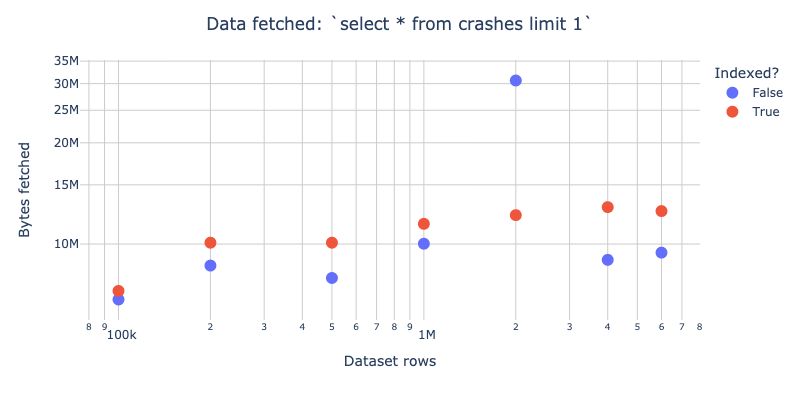
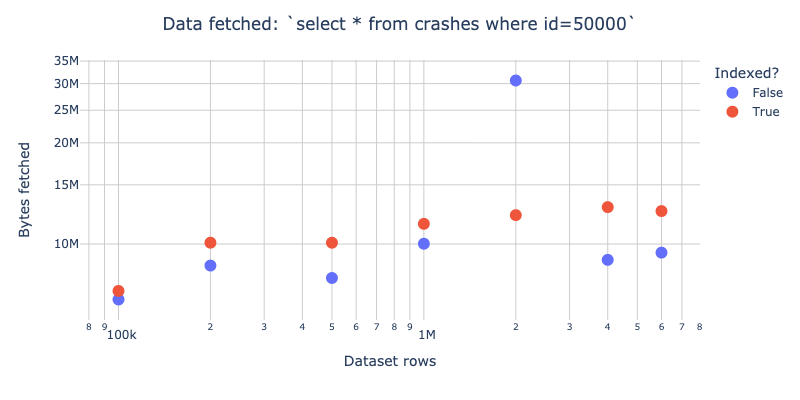
update queries

Changed region(s): [[0.1875, 0.03, 0.7812, 0.09]]

diff --git a/README.md b/README.md
@@ -1,34 +1,12 @@
-This is a [Next.js](https://nextjs.org/) project bootstrapped with [`create-next-app`](https://github.com/vercel/next.js/tree/canary/packages/create-next-app).
+# duckdb-wasm-test
+Measure data fetched when [duckdb-wasm] queries `.duckdb` files in S3
 
-## Getting Started
+![](fetch-1/fetched.png)
 
-First, run the development server:
+![](select-1/fetched.png)
 
-```bash
-npm run dev
-# or
-yarn dev
-```
+## 1. Perform queries, download `.har` file
 
-Open [http://localhost:3000](http://localhost:3000) with your browser to see the result.
+## 2. Analyze `.har` file
 
-You can start editing the page by modifying `pages/index.tsx`. The page auto-updates as you edit the file.
-
-[API routes](https://nextjs.org/docs/api-routes/introduction) can be accessed on [http://localhost:3000/api/hello](http://localhost:3000/api/hello). This endpoint can be edited in `pages/api/hello.ts`.
-
-The `pages/api` directory is mapped to `/api/*`. Files in this directory are treated as [API routes](https://nextjs.org/docs/api-routes/introduction) instead of React pages.
-
-## Learn More
-
-To learn more about Next.js, take a look at the following resources:
-
-- [Next.js Documentation](https://nextjs.org/docs) - learn about Next.js features and API.
-- [Learn Next.js](https://nextjs.org/learn) - an interactive Next.js tutorial.
-
-You can check out [the Next.js GitHub repository](https://github.com/vercel/next.js/) - your feedback and contributions are welcome!
-
-## Deploy on Vercel
-
-The easiest way to deploy your Next.js app is to use the [Vercel Platform](https://vercel.com/new?utm_medium=default-template&filter=next.js&utm_source=create-next-app&utm_campaign=create-next-app-readme) from the creators of Next.js.
-
-Check out our [Next.js deployment documentation](https://nextjs.org/docs/deployment) for more details.
+[duckdb-wasm]: https://github.com/duckdb/duckdb-wasm
